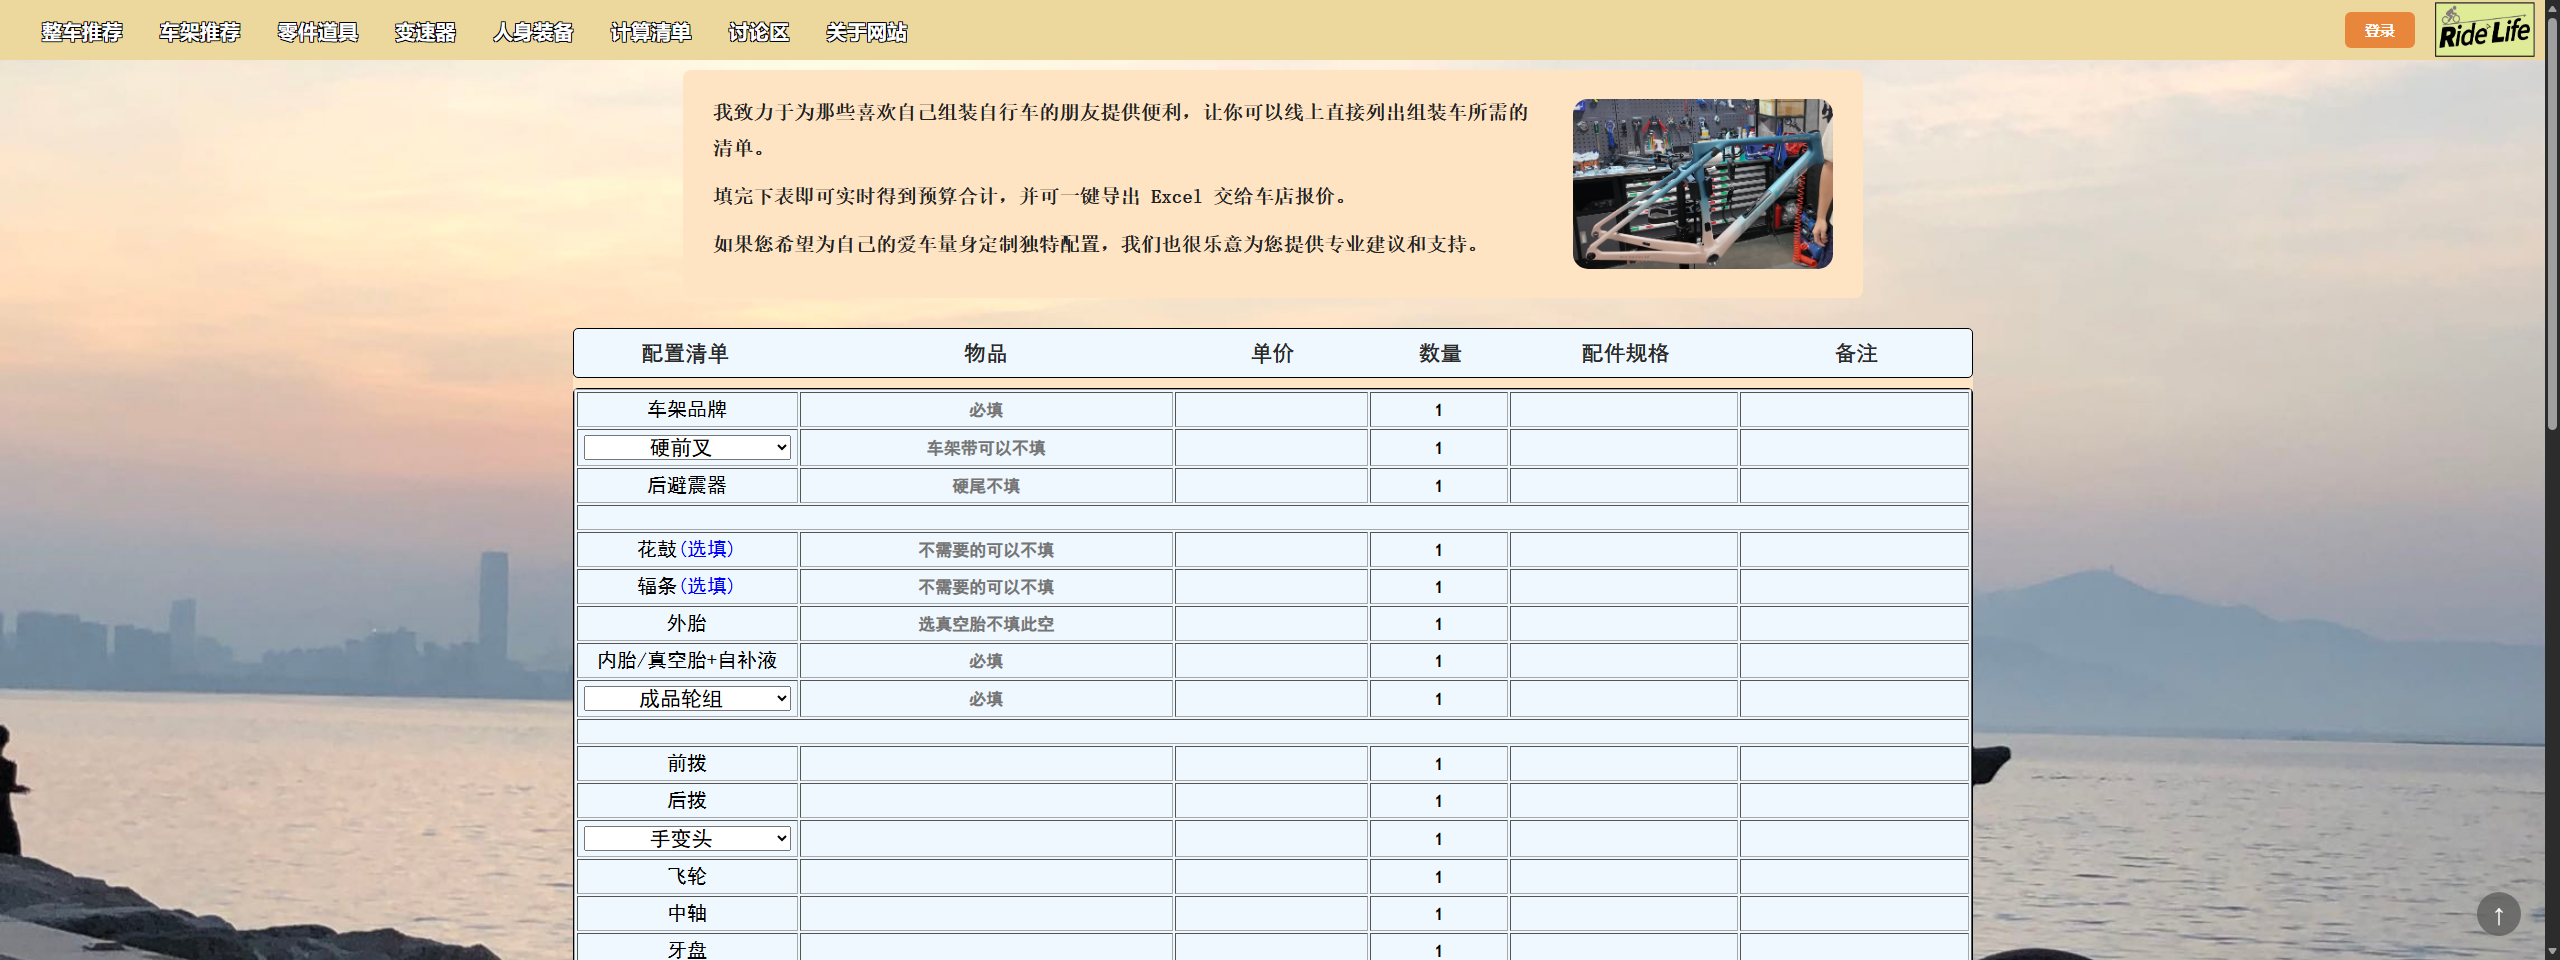
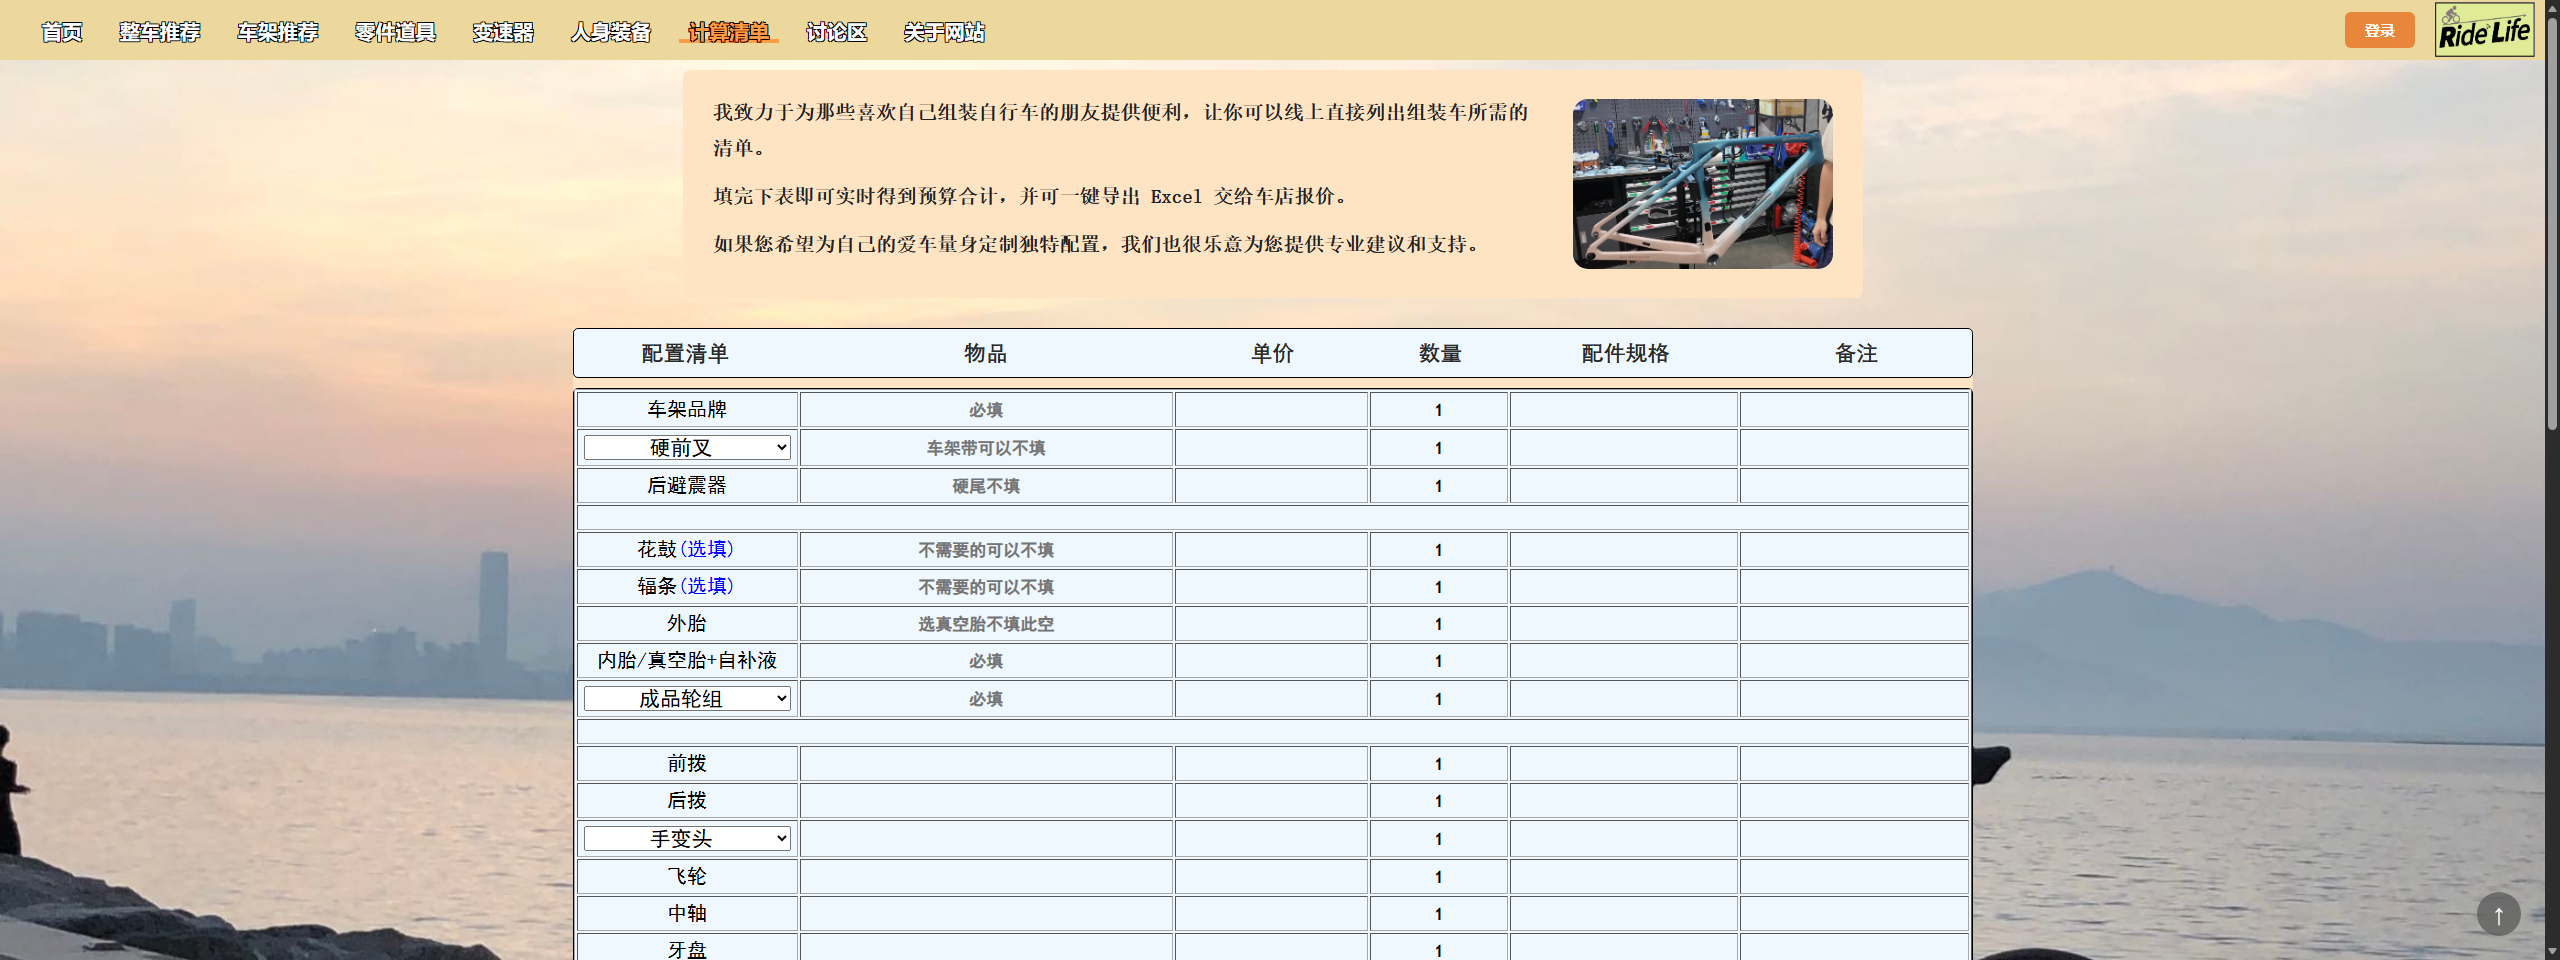
feat: 导航栏新增「首页」入口，并给当前页菜单加橙色下划线

Changed region(s): [[0.0, 0.0, 0.4062, 0.0625]]

diff --git a/新代码/src/components/NavBar.vue b/新代码/src/components/NavBar.vue
@@ -24,6 +24,7 @@ function onAvatarError(event) {
  * 迁移后：导航只写这一次，7 个页面共享；hover 交给 CSS，全局函数 jr1/lk1 可以整体删除。
  */
 const navItems = [
+  { label: '首页', to: '/' },
   { label: '整车推荐', to: '/pending/整车推荐' },
   { label: '车架推荐', to: '/pending/车架推荐' },
   { label: '零件道具', to: '/pending/零件道具' },
@@ -210,6 +211,13 @@ onBeforeUnmount(() => document.removeEventListener('click', onDocumentClick))
   padding-right: 10px;
   text-align: left;
   white-space: nowrap;
+}
+
+/* 当前所在页的菜单项加一条橙色下划线，方便知道自己在哪一页
+   （只对「完全匹配」生效，否则 首页 会在所有页面都亮着） */
+#ul_nav li a.router-link-exact-active {
+  border-bottom: 4px solid rgb(252, 158, 70);
+  color: rgb(252, 158, 70);
 }
 
 /* 1280~1440 之间字号收一点，7 个菜单不会挤在一起 */
